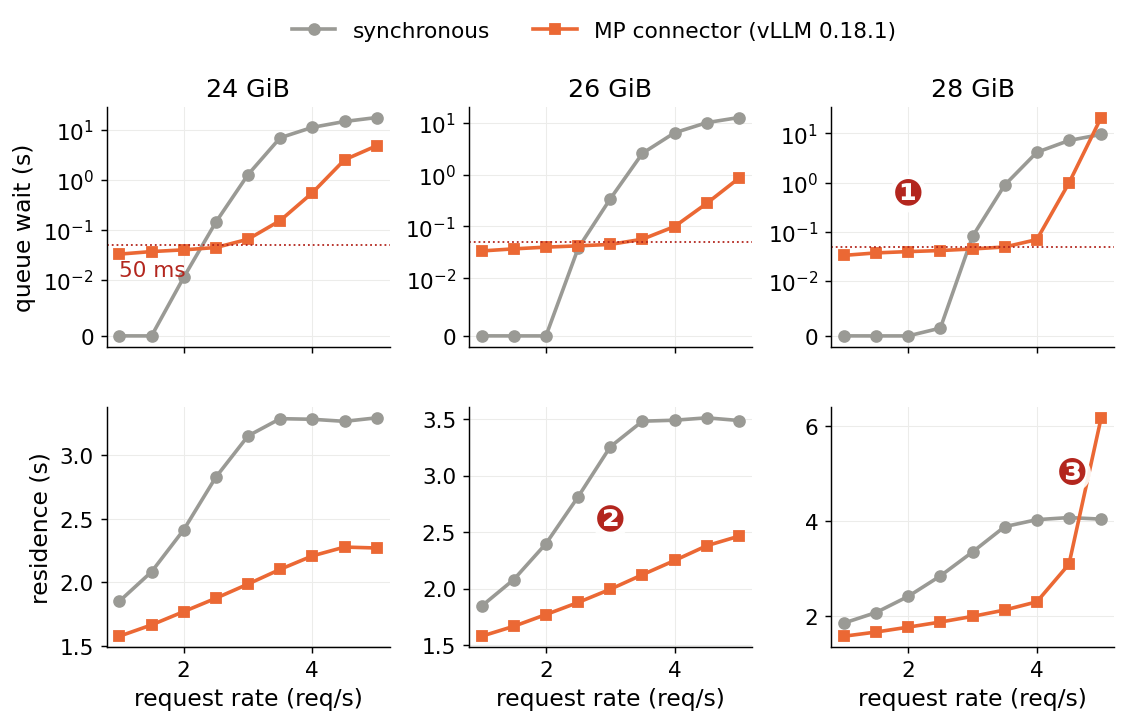
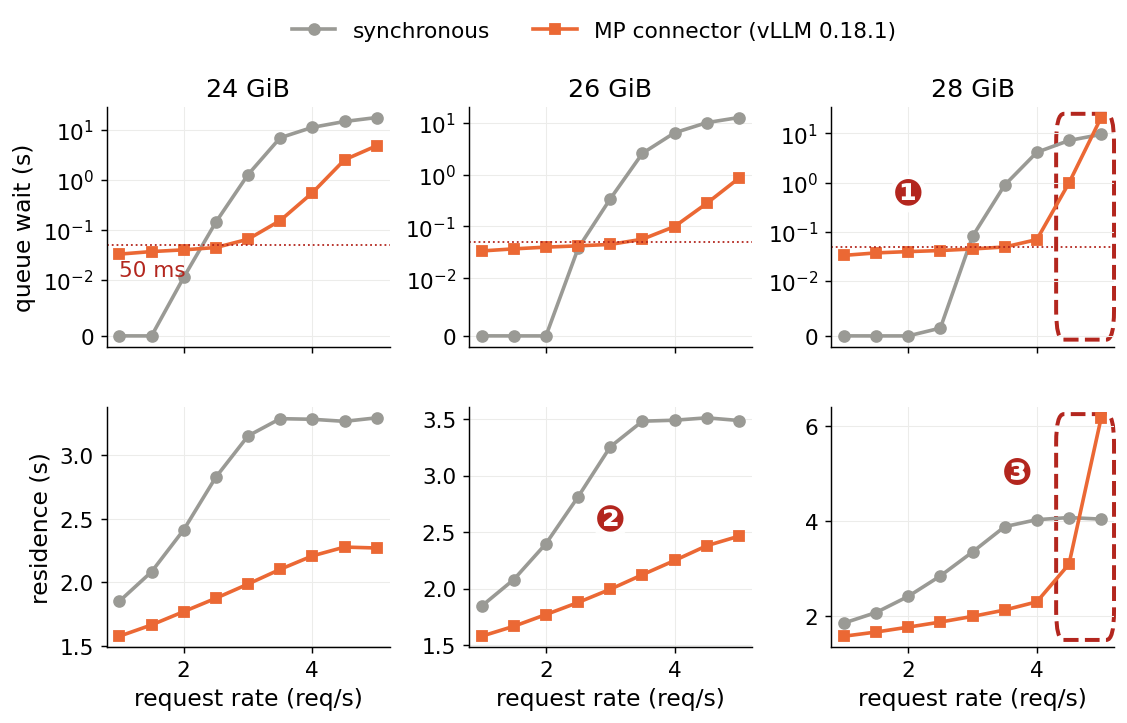
MP figures circle the 28 GiB collapse; slide grids for throughput/TPOT; report notes the layerwise decode split is bookkeeping

diff --git a/scripts/plots/plot_slides.py b/scripts/plots/plot_slides.py
@@ -13,6 +13,7 @@ from pathlib import Path
 import matplotlib
 matplotlib.use("Agg")
 import matplotlib.image as mpimg
+import matplotlib.ticker
 import matplotlib.pyplot as plt
 import numpy as np
 from matplotlib.patches import FancyArrowPatch, FancyBboxPatch, Rectangle
@@ -723,7 +724,13 @@ def fig_split_s():
 
 
 # ------------------------------------------------------------------ async / MP over the grid
-def fig_lever_grid(method, label, color, name, unstable=None, extra=()):
+LEVER_ROWS = {"wait": ("wait_ms", 1e-3, "queue wait (s)"), "tput": ("tok_s", 1, "output tokens / s"),
+              "tpot": ("tpot_ms", 1, "TPOT p50 (ms, log)"), "resid": ("resid_s", 1, "residence (s)")}
+
+
+def fig_lever_grid(method, label, color, name, unstable=None, extra=(), panels=("wait", "resid"),
+                   collapse=None, marks=True):
+    from matplotlib.transforms import blended_transform_factory
     rows = list(csv.DictReader(open(REPO / "output" / "kv_vram" / "async_summary.csv")))
     fig, axes = plt.subplots(2, 3, figsize=(10, 5.4), sharex=True,
                              gridspec_kw={"hspace": 0.25, "wspace": 0.28})
@@ -732,30 +739,40 @@ def fig_lever_grid(method, label, color, name, unstable=None, extra=()):
             rs = sorted([r for r in rows if r["method"] == m and int(r["budget"]) == b],
                         key=lambda r: float(r["qps"]))
             q = [float(r["qps"]) for r in rs]
-            axes[0, j].plot(q, [float(r["wait_ms"]) / 1e3 for r in rs], marker=mk, color=c, lw=2, label=lab)
-            axes[1, j].plot(q, [float(r["resid_s"]) for r in rs], marker=mk, color=c, lw=2, label=lab)
-        axes[0, j].set_yscale("symlog", linthresh=0.01)
-        axes[0, j].axhline(0.05, color=C_RED, lw=1, ls=":")
+            for i, p in enumerate(panels):
+                col, sc, _ = LEVER_ROWS[p]
+                axes[i, j].plot(q, [float(r[col]) * sc for r in rs], marker=mk, color=c, lw=2, label=lab)
+        for i, p in enumerate(panels):
+            ax = axes[i, j]
+            if p == "wait":
+                ax.set_yscale("symlog", linthresh=0.01)
+                ax.axhline(0.05, color=C_RED, lw=1, ls=":")
+            if p == "tpot":
+                ax.set_yscale("log")
+                ax.set_yticks([15, 20, 30, 50, 100, 200])
+                ax.yaxis.set_major_formatter(matplotlib.ticker.ScalarFormatter())
+                ax.yaxis.set_minor_formatter(matplotlib.ticker.NullFormatter())
+            ax.grid(color="#ececea", lw=0.6)
+            ax.spines[["top", "right"]].set_visible(False)
+            ax.tick_params(labelsize=12)
+            if collapse and b == collapse:
+                ax.add_patch(FancyBboxPatch((4.3, 0.03), 0.9, 0.94, boxstyle="round,pad=0,rounding_size=0.12",
+                                            transform=blended_transform_factory(ax.transData, ax.transAxes),
+                                            fill=False, ec=C_RED, lw=2.2, ls="--", clip_on=False))
         axes[0, j].set_title(f"{b} GiB", fontsize=14)
-        axes[1, j].set_xlabel("request rate (req/s)", fontsize=13)
-        for i in range(2):
-            axes[i, j].grid(color="#ececea", lw=0.6)
-            axes[i, j].spines[["top", "right"]].set_visible(False)
-            axes[i, j].tick_params(labelsize=12)
+        axes[-1, j].set_xlabel("request rate (req/s)", fontsize=13)
         if unstable and b in unstable:
             for i in range(2):
                 axes[i, j].axvspan(unstable[b] - 0.25, 5.25, color="#f3d6d3", alpha=0.6, lw=0)
-            axes[1, j].text(unstable[b] + 0.45, axes[1, j].get_ylim()[0] + 0.1, "crashed", color=C_RED,
-                            fontsize=12, ha="center", va="bottom")
-    axes[0, 0].set_ylabel("queue wait (s)", fontsize=13)
-    axes[1, 0].set_ylabel("residence (s)", fontsize=13)
-    axes[0, 0].text(1.0, 0.025, "50 ms", color=C_RED, fontsize=12, va="top")
+            axes[1, j].text(unstable[b] + 0.45, 0.04, "crashed", color=C_RED, fontsize=12, ha="center",
+                            va="bottom", transform=blended_transform_factory(axes[1, j].transData,
+                                                                             axes[1, j].transAxes))
+    for i, p in enumerate(panels):
+        axes[i, 0].set_ylabel(LEVER_ROWS[p][2], fontsize=13)
+    if panels[0] == "wait":
+        axes[0, 0].text(1.0, 0.025, "50 ms", color=C_RED, fontsize=12, va="top")
     h, l = axes[0, 0].get_legend_handles_labels()
     fig.legend(h, l, loc="upper center", ncol=3, frameon=False, fontsize=12, bbox_to_anchor=(0.5, 1.03))
-    mbadge(axes[0, 2], 2.0, 0.6, 1)
-    mbadge(axes[1, 1], 3.0, 2.6, 2)
-    if unstable:
-        mbadge(axes[0, 0], 4.5, 5.0, 3)
     for (i, j, x, y, n) in extra:
         mbadge(axes[i, j], x, y, n)
     fig.savefig(OUT / f"{name}.png", dpi=130, facecolor="white", bbox_inches="tight")
@@ -764,11 +781,19 @@ def fig_lever_grid(method, label, color, name, unstable=None, extra=()):
 
 
 def fig_mp_grid():
-    fig_lever_grid("mp18", "MP connector (vLLM 0.18.1)", C_LOAD, "s_mp_grid", extra=[(1, 2, 4.55, 5.0, 3)])
+    lab = "MP connector (vLLM 0.18.1)"
+    fig_lever_grid("mp18", lab, C_LOAD, "s_mp_grid", collapse=28,
+                   extra=[(0, 2, 2.0, 0.6, 1), (1, 1, 3.0, 2.6, 2), (1, 2, 3.7, 5.0, 3)])
+    fig_lever_grid("mp18", lab, C_LOAD, "s_mp_grid2", collapse=28, panels=("tput", "tpot"),
+                   extra=[(0, 1, 3.0, 560, 1), (1, 1, 3.0, 60, 2), (0, 2, 3.7, 220, 3)])
 
 
 def fig_async_grid():
-    fig_lever_grid("cops_async", "enable_async_loading", C_DEC, "s_async_grid", unstable={24: 4})
+    lab = "enable_async_loading"
+    fig_lever_grid("cops_async", lab, C_DEC, "s_async_grid", unstable={24: 4},
+                   extra=[(0, 2, 2.0, 0.6, 1), (1, 1, 3.0, 2.6, 2), (0, 0, 4.5, 5.0, 3)])
+    fig_lever_grid("cops_async", lab, C_DEC, "s_async_grid2", unstable={24: 4}, panels=("tput", "tpot"),
+                   extra=[(0, 2, 3.0, 470, 1), (1, 1, 3.0, 60, 2)])
 
 
 # ------------------------------------------------------------------ markers on report figures

diff --git a/scripts/plots/plot_kv_async.py b/scripts/plots/plot_kv_async.py
@@ -113,6 +113,17 @@ def plot_arm(rows, methods, fname, title):
         for i in range(4):
             axes[i, j].grid(color="#ececea", lw=0.6)
             axes[i, j].spines[["top", "right"]].set_visible(False)
+    if "mp18" in methods:      # 28 GiB collapses at 4.5-5 req/s: the lent 16th slot evicts, MP recomputes
+        from matplotlib.patches import FancyBboxPatch
+        from matplotlib.transforms import blended_transform_factory
+        for i in range(4):
+            ax = axes[i, 2]
+            ax.add_patch(FancyBboxPatch((4.3, 0.03), 0.9, 0.94, boxstyle="round,pad=0,rounding_size=0.12",
+                                        transform=blended_transform_factory(ax.transData, ax.transAxes),
+                                        fill=False, ec="#b3261e", lw=2, ls="--", clip_on=False))
+        axes[1, 2].text(4.15, 0.12, "collapse at 5 req/s:\n174 evictions, 303 tok/s,\nresidence 6.2 s",
+                        transform=blended_transform_factory(axes[1, 2].transData, axes[1, 2].transAxes),
+                        color="#b3261e", fontsize=9.5, ha="right", va="bottom")
     axes[0, 0].set_ylabel("(a) mean decode queue wait (s)")
     axes[1, 0].set_ylabel("(b) output tokens / s")
     axes[2, 0].set_ylabel("(c) TPOT p50, end-user (ms, log)")

diff --git a/reports/report_kv_slots.md b/reports/report_kv_slots.md
@@ -286,7 +286,11 @@ overlap copy with compute. Measured at 24 GiB / 2.5 req/s:
 No gain: queue 143 → 136 ms, own load 0.18 → 0.19 s, residence 2.83 → 2.76 s, all within
 run-to-run noise. The direct check of overlap is the time that load-carrying steps add to
 a request's residence: 0.67 s without, 0.70 s with layerwise. If the copies overlapped the
-forward, this would shrink.
+forward, this would shrink. The rest of the decode time (each step counted up to 1.5 × the median
+step) reads 1.98 vs 1.88 s, but that is bookkeeping, not faster decoding: a request spans
+the same 127 steps in both runs, a step with no admission takes 14.5 vs 14.4 ms, and the
+synchronous run simply has more mildly slow steps (9% vs 5% over the cap) whose first
+1.5 × median lands in that part. Both parts together: 2.65 vs 2.58 s.
 
 Why there is no overlap: the admitting step, drawn to scale from the measured copy
 (115 ms) and forward (14 ms):
@@ -353,7 +357,8 @@ mixes the connector with these version effects. Full grid, 27 cells, all ok (DEC
 
 ![MP vs sync](../figures/kv_mp.png)
 
-Same metrics as §4.1, plus residence; (a) is vLLM's queue time, which includes the ~42 ms KV
+Same metrics as §4.1, plus residence; the dashed red box marks the 28 GiB collapse at
+4.5–5 req/s (5 req/s: 174 evictions, 303 tok/s, residence 6.2 s). (a) is vLLM's queue time, which includes the ~42 ms KV
 wait after the block grant (the wait for a slot alone is in the capacity table below).
 
 | | 24 GiB | 26 GiB | 28 GiB |
